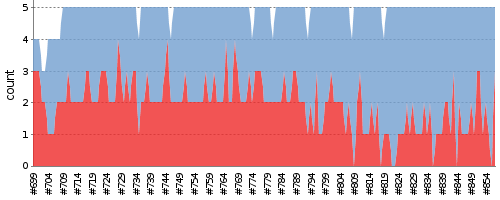
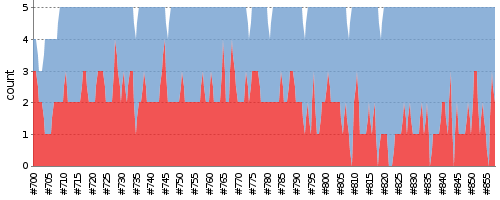
update report

diff --git a/index.md b/index.md
@@ -1,7 +1,7 @@
 ---
 layout: default
 ---
-Last update : 2016/01/22 06:59:07
+Last update : 2016/01/22 07:59:06
   
 ### Job Summary
 ___
@@ -109,6 +109,7 @@ ___
 #### Build History
 |Status|Time|Duration|Inspection|Test|Coverage|Changes|Build|Console|Image|Video|Note|
 |---|---|---|---|---|---|---|---|---|---|---|---|---|
+|![Jenkins Icon](http://jenkinshrg.github.io/images/24x24/yellow.png)UNSTABLE|2016/01/22 07:00|44 min.||2 err.||||[jenkinshrg.txt](https://drive.google.com/file/d/0B54sHwaxmuM4SVZEYmwzNjNhN0U/view?usp=drivesdk)<br>[testbed-terrain.txt](https://drive.google.com/file/d/0B54sHwaxmuM4M1VISDVyVTNSMkk/view?usp=drivesdk)<br>[drc-valves.txt](https://drive.google.com/file/d/0B54sHwaxmuM4RFRLRVEwVTY1NkE/view?usp=drivesdk)<br>[drc-wall-testbed.txt](https://drive.google.com/file/d/0B54sHwaxmuM4QlphNHZVUmVESFE/view?usp=drivesdk)<br>[irex-balance-beam-auto.txt](https://drive.google.com/file/d/0B54sHwaxmuM4QTU2WVkyNzQzYXc/view?usp=drivesdk)<br>|[jenkinshrg.png](https://drive.google.com/file/d/0B54sHwaxmuM4X0ZOT2ZfZ2F0d1U/view?usp=drivesdk)<br>[testbed-terrain.png](https://drive.google.com/file/d/0B54sHwaxmuM4XzNsLTJJbVZaUTQ/view?usp=drivesdk)<br>[drc-valves.png](https://drive.google.com/file/d/0B54sHwaxmuM4cXUydVdVNmhtN2s/view?usp=drivesdk)<br>[drc-wall-testbed.png](https://drive.google.com/file/d/0B54sHwaxmuM4X0N3TTQwS0VnQ0U/view?usp=drivesdk)<br>[irex-balance-beam-auto.png](https://drive.google.com/file/d/0B54sHwaxmuM4UnhUb21xMGUyMkE/view?usp=drivesdk)<br>|[jenkinshrg.ogv](https://drive.google.com/file/d/0B54sHwaxmuM4RERxMjhxbHltajA/view?usp=drivesdk)<br>[testbed-terrain.ogv](https://drive.google.com/file/d/0B54sHwaxmuM4ZHVlSHRBWDhkUjg/view?usp=drivesdk)<br>[drc-valves.ogv](https://drive.google.com/file/d/0B54sHwaxmuM4My14NzdWd01OQzg/view?usp=drivesdk)<br>[drc-wall-testbed.ogv](https://drive.google.com/file/d/0B54sHwaxmuM4MWhkd1UweEt6QzA/view?usp=drivesdk)<br>[irex-balance-beam-auto.ogv](https://drive.google.com/file/d/0B54sHwaxmuM4MGpSQUczUkQ2ckU/view?usp=drivesdk)<br>||
 |![Jenkins Icon](http://jenkinshrg.github.io/images/24x24/yellow.png)UNSTABLE|2016/01/22 06:00|44 min.||3 err.||||[jenkinshrg.txt](https://drive.google.com/file/d/0B54sHwaxmuM4eUFoaU9RNU84c1E/view?usp=drivesdk)<br>[testbed-terrain.txt](https://drive.google.com/file/d/0B54sHwaxmuM4UzE4LTZjb09oWDg/view?usp=drivesdk)<br>[drc-valves.txt](https://drive.google.com/file/d/0B54sHwaxmuM4UTF3Tk9RX0ZHUDA/view?usp=drivesdk)<br>[drc-wall-testbed.txt](https://drive.google.com/file/d/0B54sHwaxmuM4d3dOSXJOU0k2d1U/view?usp=drivesdk)<br>[irex-balance-beam-auto.txt](https://drive.google.com/file/d/0B54sHwaxmuM4Yll3NEt3X0p2NGs/view?usp=drivesdk)<br>|[jenkinshrg.png](https://drive.google.com/file/d/0B54sHwaxmuM4TEN6VVpRM1JxNUk/view?usp=drivesdk)<br>[testbed-terrain.png](https://drive.google.com/file/d/0B54sHwaxmuM4MEtMTjFoYUMwVUE/view?usp=drivesdk)<br>[drc-valves.png](https://drive.google.com/file/d/0B54sHwaxmuM4N01tV3JMQm1sQzQ/view?usp=drivesdk)<br>[drc-wall-testbed.png](https://drive.google.com/file/d/0B54sHwaxmuM4N292LXRUejhuYkE/view?usp=drivesdk)<br>[irex-balance-beam-auto.png](https://drive.google.com/file/d/0B54sHwaxmuM4RDZka0J0bGJJMG8/view?usp=drivesdk)<br>|[jenkinshrg.ogv](https://drive.google.com/file/d/0B54sHwaxmuM4ZkI4cFlKd2xtMjA/view?usp=drivesdk)<br>[testbed-terrain.ogv](https://drive.google.com/file/d/0B54sHwaxmuM4djVUTjVkdFFYZXc/view?usp=drivesdk)<br>[drc-valves.ogv](https://drive.google.com/file/d/0B54sHwaxmuM4M3JGOWlMZUtRV1k/view?usp=drivesdk)<br>[drc-wall-testbed.ogv](https://drive.google.com/file/d/0B54sHwaxmuM4T0dvYTdIQ1R3VDQ/view?usp=drivesdk)<br>[irex-balance-beam-auto.ogv](https://drive.google.com/file/d/0B54sHwaxmuM4R2QwaE5wSDFndmM/view?usp=drivesdk)<br>||
 |![Jenkins Icon](http://jenkinshrg.github.io/images/24x24/blue.png)SUCCESS|2016/01/22 05:00|45 min.||0 err.||||[jenkinshrg.txt](https://drive.google.com/file/d/0B54sHwaxmuM4TW5NMHNYVFNJRHM/view?usp=drivesdk)<br>[testbed-terrain.txt](https://drive.google.com/file/d/0B54sHwaxmuM4Nk9Qa2xQdWlLU0U/view?usp=drivesdk)<br>[drc-valves.txt](https://drive.google.com/file/d/0B54sHwaxmuM4Nl8zdFB2bVdIWFU/view?usp=drivesdk)<br>[drc-wall-testbed.txt](https://drive.google.com/file/d/0B54sHwaxmuM4ZTJZdVBxeW5NdjQ/view?usp=drivesdk)<br>[irex-balance-beam-auto.txt](https://drive.google.com/file/d/0B54sHwaxmuM4Y0lNdzhhVUtDUFU/view?usp=drivesdk)<br>|[jenkinshrg.png](https://drive.google.com/file/d/0B54sHwaxmuM4RlR2b0lNeEFlMGc/view?usp=drivesdk)<br>[testbed-terrain.png](https://drive.google.com/file/d/0B54sHwaxmuM4aklrMTFiUDhBeE0/view?usp=drivesdk)<br>[drc-valves.png](https://drive.google.com/file/d/0B54sHwaxmuM4SzJtQXkxVE5WNU0/view?usp=drivesdk)<br>[drc-wall-testbed.png](https://drive.google.com/file/d/0B54sHwaxmuM4N0dneklNZlJtdG8/view?usp=drivesdk)<br>[irex-balance-beam-auto.png](https://drive.google.com/file/d/0B54sHwaxmuM4dkZUU2c2YjlYX2c/view?usp=drivesdk)<br>|[jenkinshrg.ogv](https://drive.google.com/file/d/0B54sHwaxmuM4dWpCNlBTOHVLd0E/view?usp=drivesdk)<br>[testbed-terrain.ogv](https://drive.google.com/file/d/0B54sHwaxmuM4aFd1cmFQMTlpT3M/view?usp=drivesdk)<br>[drc-valves.ogv](https://drive.google.com/file/d/0B54sHwaxmuM4M1haYlo5cXFnM3c/view?usp=drivesdk)<br>[drc-wall-testbed.ogv](https://drive.google.com/file/d/0B54sHwaxmuM4UE16RDZZNXVfTTA/view?usp=drivesdk)<br>[irex-balance-beam-auto.ogv](https://drive.google.com/file/d/0B54sHwaxmuM4eml3MkhCWVRkRHM/view?usp=drivesdk)<br>||
 |![Jenkins Icon](http://jenkinshrg.github.io/images/24x24/yellow.png)UNSTABLE|2016/01/22 04:00|45 min.||1 err.||||[jenkinshrg.txt](https://drive.google.com/file/d/0B54sHwaxmuM4dEpVNzZURU5fLXc/view?usp=drivesdk)<br>[testbed-terrain.txt](https://drive.google.com/file/d/0B54sHwaxmuM4WEF5QkJaUno0d1U/view?usp=drivesdk)<br>[drc-valves.txt](https://drive.google.com/file/d/0B54sHwaxmuM4T3JOckdyQk82OU0/view?usp=drivesdk)<br>[drc-wall-testbed.txt](https://drive.google.com/file/d/0B54sHwaxmuM4dlFnV0V0RkFOa0U/view?usp=drivesdk)<br>[irex-balance-beam-auto.txt](https://drive.google.com/file/d/0B54sHwaxmuM4cXNFTW1HQzRUd2s/view?usp=drivesdk)<br>|[jenkinshrg.png](https://drive.google.com/file/d/0B54sHwaxmuM4SE1IYmt3VVFIVnM/view?usp=drivesdk)<br>[testbed-terrain.png](https://drive.google.com/file/d/0B54sHwaxmuM4ZTVEMHJtVzlvU0U/view?usp=drivesdk)<br>[drc-valves.png](https://drive.google.com/file/d/0B54sHwaxmuM4eGhZMGhqTjNiYkE/view?usp=drivesdk)<br>[drc-wall-testbed.png](https://drive.google.com/file/d/0B54sHwaxmuM4QURFOThWRUxlcms/view?usp=drivesdk)<br>[irex-balance-beam-auto.png](https://drive.google.com/file/d/0B54sHwaxmuM4X0JtLWs3anFpSFk/view?usp=drivesdk)<br>|[jenkinshrg.ogv](https://drive.google.com/file/d/0B54sHwaxmuM4alYxMEl2ZHlLQnM/view?usp=drivesdk)<br>[testbed-terrain.ogv](https://drive.google.com/file/d/0B54sHwaxmuM4d0R6cXh6VVczQ0k/view?usp=drivesdk)<br>[drc-valves.ogv](https://drive.google.com/file/d/0B54sHwaxmuM4LVNkRUwwdGtDR0k/view?usp=drivesdk)<br>[drc-wall-testbed.ogv](https://drive.google.com/file/d/0B54sHwaxmuM4b0xzZk5wRHlpVkU/view?usp=drivesdk)<br>[irex-balance-beam-auto.ogv](https://drive.google.com/file/d/0B54sHwaxmuM4U0JES1Q5M0wwUTQ/view?usp=drivesdk)<br>||
@@ -208,4 +209,3 @@ ___
 |![Jenkins Icon](http://jenkinshrg.github.io/images/24x24/yellow.png)UNSTABLE|2016/01/18 00:56|69 min.||3 err.||||||||
 |![Jenkins Icon](http://jenkinshrg.github.io/images/24x24/yellow.png)UNSTABLE|2016/01/17 23:45|71 min.||2 err.||||||||
 |![Jenkins Icon](http://jenkinshrg.github.io/images/24x24/red.png)FAILURE|2016/01/17 22:38|66 min.||2 err.||||||||
-|![Jenkins Icon](http://jenkinshrg.github.io/images/24x24/red.png)FAILURE|2016/01/17 21:31|66 min.||3 err.||||||||
